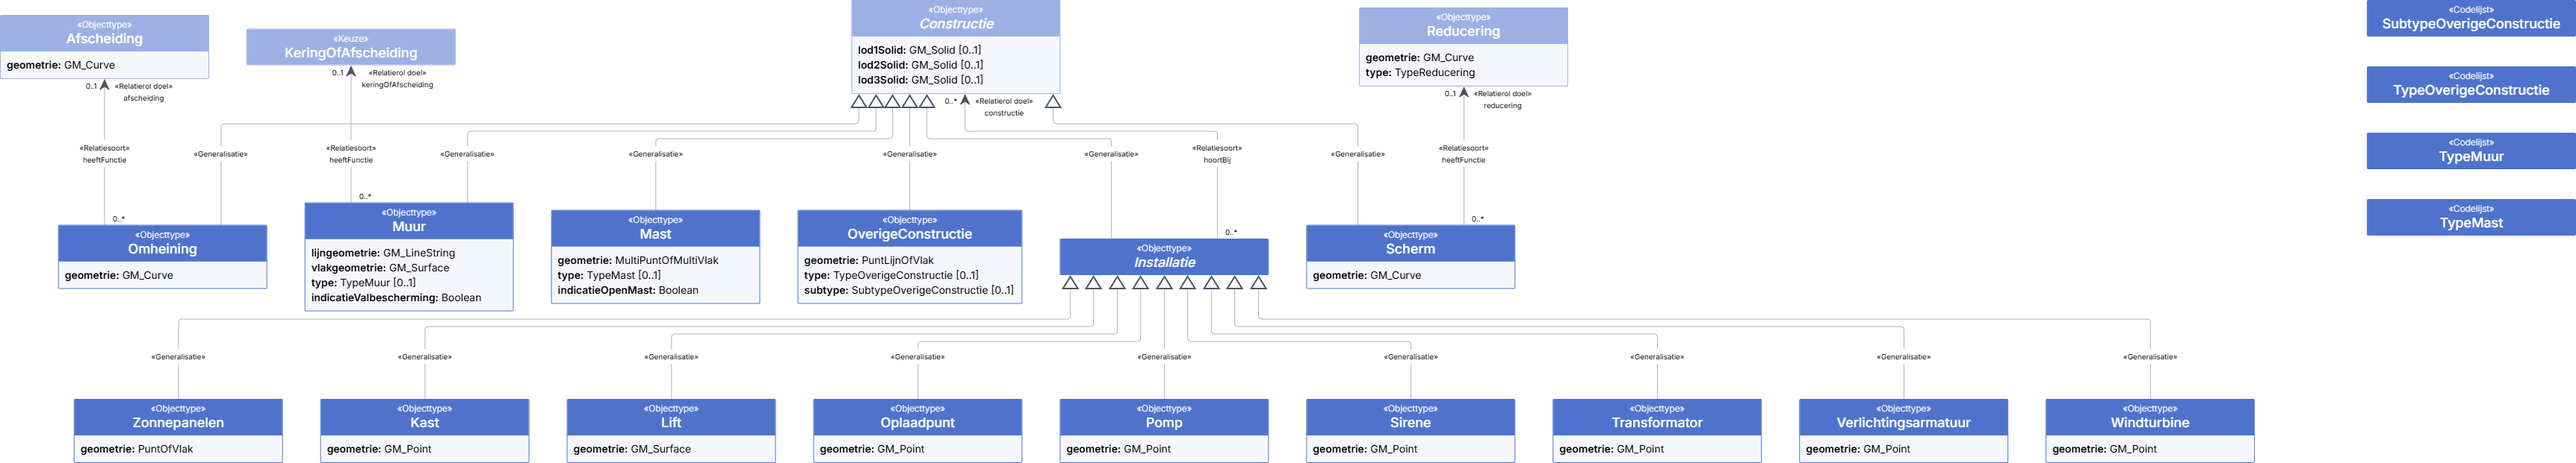
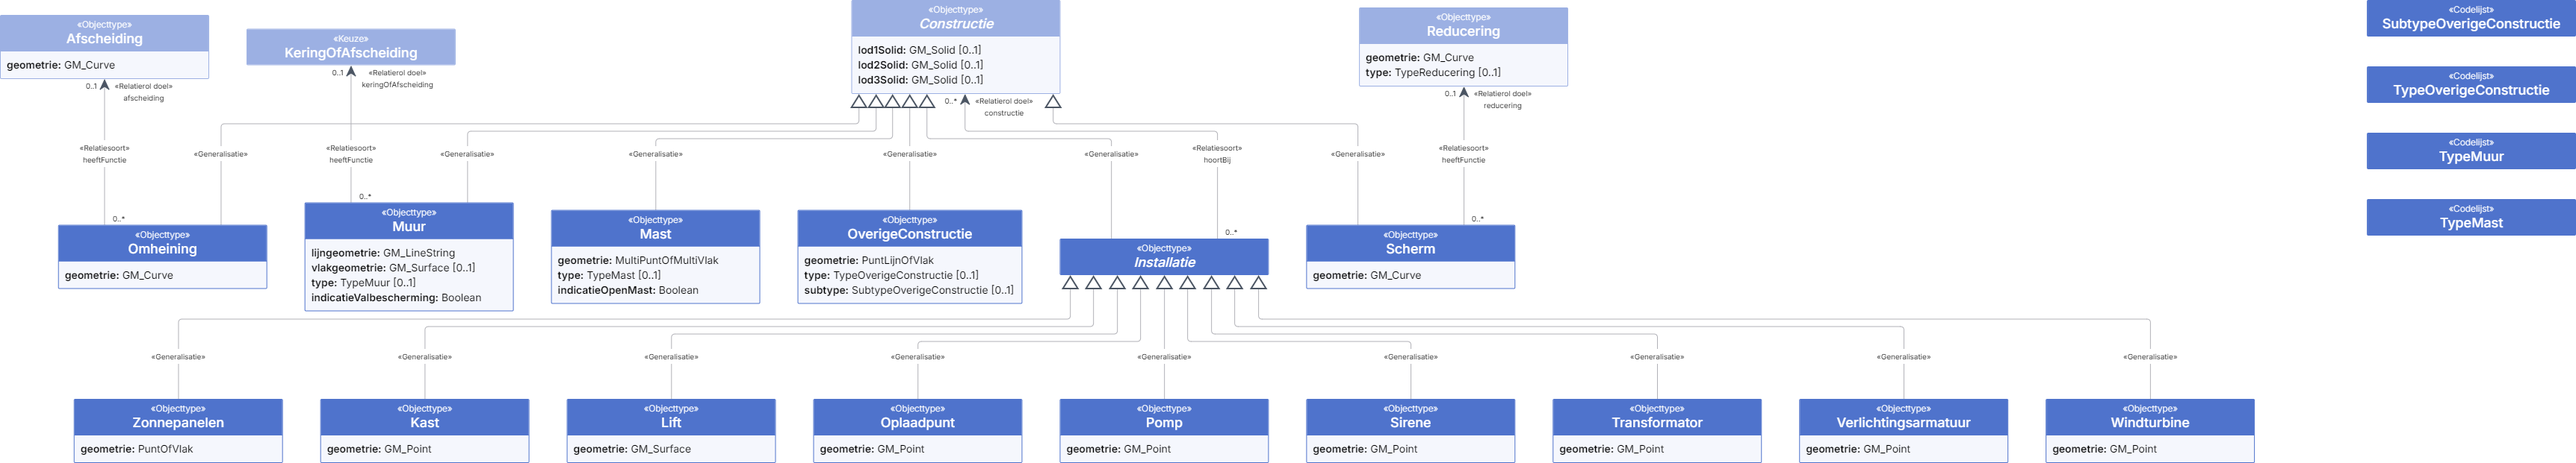
fix muur

diff --git a/data/model.md b/data/model.md
@@ -13750,7 +13750,7 @@ Vlakgeometrische representatie van een object.</td>
 <a class="external-link" href="https://geonovum.github.io/uml-datatypen/#global_class_ISO191072003_GM_Surface"> GM_Surface</a>
 </td>
 <td>
-1</td>
+0..1</td>
 </tr>
 <tr>
 <td>
@@ -13922,7 +13922,7 @@ Functie die dit object vervult.</td>
 </tr>
 <tr>
 <th>Kardinaliteit</th>
-<td>1</td>
+<td>0..1</td>
 </tr>
 <tr>
 <th>Authentiek</th>
